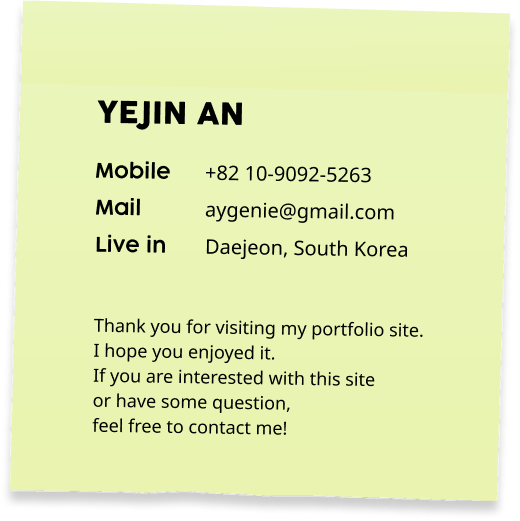
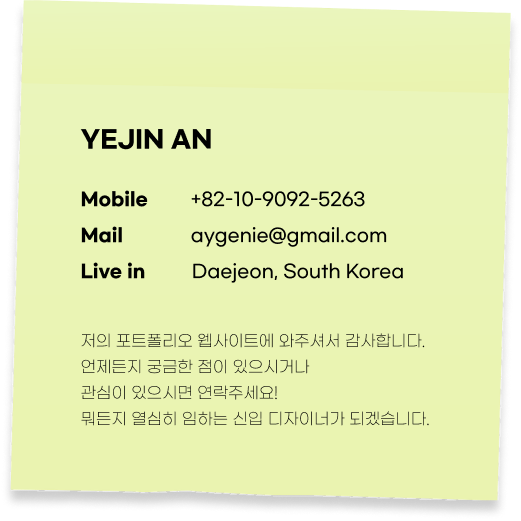
이래저래 수정

Changed region(s): [[0.1538, 0.6142, 0.8308, 0.8292], [0.3692, 0.3071, 0.8, 0.5528], [0.1538, 0.1843, 0.4923, 0.5528]]

diff --git a/resource/common.css b/resource/common.css
@@ -1,17 +1,14 @@
 /* 폰트 */
 @font-face {
-  font-family: "COCOGOOSE";
-  src: url("//db.onlinewebfonts.com/t/d14035f6b1afeabafbee4abb2ebf0fc6.eot");
-  src: url("//db.onlinewebfonts.com/t/d14035f6b1afeabafbee4abb2ebf0fc6.eot?#iefix") format("embedded-opentype"),
-    url("//db.onlinewebfonts.com/t/d14035f6b1afeabafbee4abb2ebf0fc6.woff2") format("woff2"),
-    url("//db.onlinewebfonts.com/t/d14035f6b1afeabafbee4abb2ebf0fc6.woff") format("woff"),
-    url("//db.onlinewebfonts.com/t/d14035f6b1afeabafbee4abb2ebf0fc6.ttf") format("truetype"),
-    url("//db.onlinewebfonts.com/t/d14035f6b1afeabafbee4abb2ebf0fc6.svg#COCOGOOSE") format("svg");
+  font-family: 'GmarketSansBold';
+  src: url('https://cdn.jsdelivr.net/gh/projectnoonnu/noonfonts_2001@1.1/GmarketSansBold.woff') format('woff');
+  font-weight: normal;
+  font-style: normal;
 }
 
 @font-face {
-  font-family: 'DungGeunMo';
-  src: url('https://cdn.jsdelivr.net/gh/projectnoonnu/noonfonts_six@1.2/DungGeunMo.woff') format('woff');
+  font-family: 'GmarketSansMedium';
+  src: url('https://cdn.jsdelivr.net/gh/projectnoonnu/noonfonts_2001@1.1/GmarketSansMedium.woff') format('woff');
   font-weight: normal;
   font-style: normal;
 }
@@ -39,11 +36,6 @@ a {
   text-decoration: none;
 }
 
-body {
-  min-width: 1920px;
-  background-image: url(img/background.jpg);
-}
-
 /* 라이브러리 */
 .img-box>img {
   display: block;
@@ -63,6 +55,13 @@ body {
 }
 
 /* 커스텀 */
+body {
+  min-width: 1920px;
+  background-image: url(img/background.jpg);
+  overflow:hidden;
+  font-family: 'GmarketSansMedium';
+}
+
 /* 로딩화면 */
 .loading-box {
   position: fixed;
@@ -70,10 +69,9 @@ body {
   left: 0;
   width: 100%;
   height: 100%;
-  background-color: white;
+  background-color: #fff;
   z-index: 1000;
   transition: opacity 0.3s, visibility 0.3s;
-  overflow: hidden;
 }
 
 .loading-box.hide {
@@ -100,7 +98,7 @@ body {
   width: 190px;
   height: 100px;
   font-size: 20px;
-  font-family: "COCOGOOSE";
+  font-family: 'GmarketSansBold';
   color: #333;
 }
 
@@ -127,28 +125,13 @@ body {
   top: 85%;
 }
 
-.main-text {
-  font-family: 'COCOGOOSE';
-  top: 50%;
-  left: 50%;
-  transform: translate(-50%, -50%);
-  font-size: 80px;
-  color: #A37CC9;
-  text-shadow: 2px 2px 4px #000;
-}
-
 .hm-img-1 {
-  top: 50%;
-  left: 50%;
-  transform: translate(-50%, -50%);
+  pointer-events: none;
 }
 
 /* 자기소개 */
 
 .am-img-1 {
-  top: 50%;
-  left: 50%;
-  transform: translate(-50%, -50%);
   pointer-events: none;
 }
 
@@ -217,7 +200,7 @@ body {
 }
 
 .pf-content>div {
-  padding: 15px 20px;
+  padding: 20px;
 }
 
 .pf-img>span {
@@ -302,7 +285,7 @@ body {
 }
 
 .ct-form-3 {
-  top: 676px;
+  top: 680px;
   left: 1050px;
 }
 
@@ -340,8 +323,8 @@ button {
   border: 0;
   outline: 0;
   background-color: inherit;
-  font-family: 'COCOGOOSE';
-  font-size: 25px;
+  font-family: 'GmarketSansBold';
+  font-size: 24px;
   color: #535050;
 }
 

diff --git a/docs/resource/common.css b/docs/resource/common.css
@@ -1,17 +1,14 @@
 /* 폰트 */
 @font-face {
-  font-family: "COCOGOOSE";
-  src: url("//db.onlinewebfonts.com/t/d14035f6b1afeabafbee4abb2ebf0fc6.eot");
-  src: url("//db.onlinewebfonts.com/t/d14035f6b1afeabafbee4abb2ebf0fc6.eot?#iefix") format("embedded-opentype"),
-    url("//db.onlinewebfonts.com/t/d14035f6b1afeabafbee4abb2ebf0fc6.woff2") format("woff2"),
-    url("//db.onlinewebfonts.com/t/d14035f6b1afeabafbee4abb2ebf0fc6.woff") format("woff"),
-    url("//db.onlinewebfonts.com/t/d14035f6b1afeabafbee4abb2ebf0fc6.ttf") format("truetype"),
-    url("//db.onlinewebfonts.com/t/d14035f6b1afeabafbee4abb2ebf0fc6.svg#COCOGOOSE") format("svg");
+  font-family: 'GmarketSansBold';
+  src: url('https://cdn.jsdelivr.net/gh/projectnoonnu/noonfonts_2001@1.1/GmarketSansBold.woff') format('woff');
+  font-weight: normal;
+  font-style: normal;
 }
 
 @font-face {
-  font-family: 'DungGeunMo';
-  src: url('https://cdn.jsdelivr.net/gh/projectnoonnu/noonfonts_six@1.2/DungGeunMo.woff') format('woff');
+  font-family: 'GmarketSansMedium';
+  src: url('https://cdn.jsdelivr.net/gh/projectnoonnu/noonfonts_2001@1.1/GmarketSansMedium.woff') format('woff');
   font-weight: normal;
   font-style: normal;
 }
@@ -39,11 +36,6 @@ a {
   text-decoration: none;
 }
 
-body {
-  min-width: 1920px;
-  background-image: url(img/background.jpg);
-}
-
 /* 라이브러리 */
 .img-box>img {
   display: block;
@@ -63,6 +55,13 @@ body {
 }
 
 /* 커스텀 */
+body {
+  min-width: 1920px;
+  background-image: url(img/background.jpg);
+  overflow:hidden;
+  font-family: 'GmarketSansMedium';
+}
+
 /* 로딩화면 */
 .loading-box {
   position: fixed;
@@ -70,7 +69,7 @@ body {
   left: 0;
   width: 100%;
   height: 100%;
-  background-color: white;
+  background-color: #fff;
   z-index: 1000;
   transition: opacity 0.3s, visibility 0.3s;
 }
@@ -99,7 +98,7 @@ body {
   width: 190px;
   height: 100px;
   font-size: 20px;
-  font-family: "COCOGOOSE";
+  font-family: 'GmarketSansBold';
   color: #333;
 }
 
@@ -126,28 +125,13 @@ body {
   top: 85%;
 }
 
-.main-text {
-  font-family: 'COCOGOOSE';
-  top: 50%;
-  left: 50%;
-  transform: translate(-50%, -50%);
-  font-size: 80px;
-  color: #A37CC9;
-  text-shadow: 2px 2px 4px #000;
-}
-
 .hm-img-1 {
-  top: 50%;
-  left: 50%;
-  transform: translate(-50%, -50%);
+  pointer-events: none;
 }
 
 /* 자기소개 */
 
 .am-img-1 {
-  top: 50%;
-  left: 50%;
-  transform: translate(-50%, -50%);
   pointer-events: none;
 }
 
@@ -216,7 +200,7 @@ body {
 }
 
 .pf-content>div {
-  padding: 15px 20px;
+  padding: 20px;
 }
 
 .pf-img>span {
@@ -301,7 +285,7 @@ body {
 }
 
 .ct-form-3 {
-  top: 676px;
+  top: 680px;
   left: 1050px;
 }
 
@@ -339,8 +323,8 @@ button {
   border: 0;
   outline: 0;
   background-color: inherit;
-  font-family: 'COCOGOOSE';
-  font-size: 25px;
+  font-family: 'GmarketSansBold';
+  font-size: 24px;
   color: #535050;
 }
 

diff --git a/docs/index.html b/docs/index.html
@@ -85,7 +85,7 @@
   </header>
     <main><div id="fullpage">
   <!-- 로딩화면 -->
-  <div class="loading-box flex items-center justify-center text-white text-4xl">
+  <div class="loading-box flex items-center justify-center">
     <img src="resource/img/loading.gif" alt="로딩.gif">
   </div>
   <!-- 홈 -->
@@ -95,8 +95,8 @@
     <!-- <h1 class="main-text section-item whitespace-nowrap">
       THE CREATIVE NOTE
     </h1> -->
-    <div class="mousemove-effect-1-el" data-mousemove-effect1-hor-res="0.03" data-mousemove-effect1-ver-res="0.01">
-      <img class="section-item hm-img-1" src="resource/img/main-title.png" alt="메인타이틀"></div>
+    <div class="mousemove-effect-1-el flex items-center justify-center" data-mousemove-effect1-hor-res="0.03" data-mousemove-effect1-ver-res="0.01">
+      <img class="hm-img-1" src="resource/img/main-title.png" alt="메인타이틀"></div>
     <!-- <div><img src="resource/img/main-title.png" alt="메인타이틀" class="section-item hm-img-1"></div> -->
   </section>
 
@@ -104,7 +104,7 @@
   <section class="section relative fp-auto-height-responsive" data-anchor="about-me">
     <a class="cursor-pointer" href="#home"><img src="resource/img/btn_1_2.png" alt="상단버튼"
         class="section-item icon-up"></a>
-    <div><img src="resource/img/2-1.png" alt="프로필" class="section-item am-img-1"></div>
+    <div class="flex items-center justify-center"><img src="resource/img/2-1.png" alt="프로필" class="am-img-1"></div>
   </section>
 
   <!-- 포트폴리오 -->

diff --git a/index.ssg.php b/index.ssg.php
@@ -1,7 +1,7 @@
 <?php require_once "head.php"; ?>
 <div id="fullpage">
   <!-- 로딩화면 -->
-  <div class="loading-box flex items-center justify-center text-white text-4xl">
+  <div class="loading-box flex items-center justify-center">
     <img src="resource/img/loading.gif" alt="로딩.gif">
   </div>
   <!-- 홈 -->
@@ -11,8 +11,8 @@
     <!-- <h1 class="main-text section-item whitespace-nowrap">
       THE CREATIVE NOTE
     </h1> -->
-    <div class="mousemove-effect-1-el" data-mousemove-effect1-hor-res="0.03" data-mousemove-effect1-ver-res="0.01">
-      <img class="section-item hm-img-1" src="resource/img/main-title.png" alt="메인타이틀"></div>
+    <div class="mousemove-effect-1-el flex items-center justify-center" data-mousemove-effect1-hor-res="0.03" data-mousemove-effect1-ver-res="0.01">
+      <img class="hm-img-1" src="resource/img/main-title.png" alt="메인타이틀"></div>
     <!-- <div><img src="resource/img/main-title.png" alt="메인타이틀" class="section-item hm-img-1"></div> -->
   </section>
 
@@ -20,7 +20,7 @@
   <section class="section relative fp-auto-height-responsive" data-anchor="about-me">
     <a class="cursor-pointer" href="#home"><img src="resource/img/btn_1_2.png" alt="상단버튼"
         class="section-item icon-up"></a>
-    <div><img src="resource/img/2-1.png" alt="프로필" class="section-item am-img-1"></div>
+    <div class="flex items-center justify-center"><img src="resource/img/2-1.png" alt="프로필" class="am-img-1"></div>
   </section>
 
   <!-- 포트폴리오 -->
